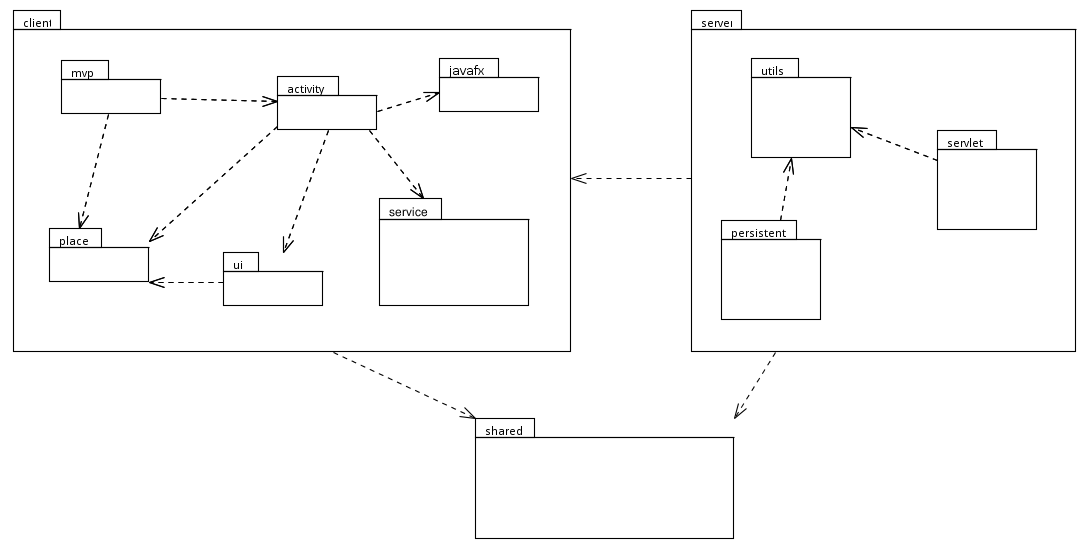
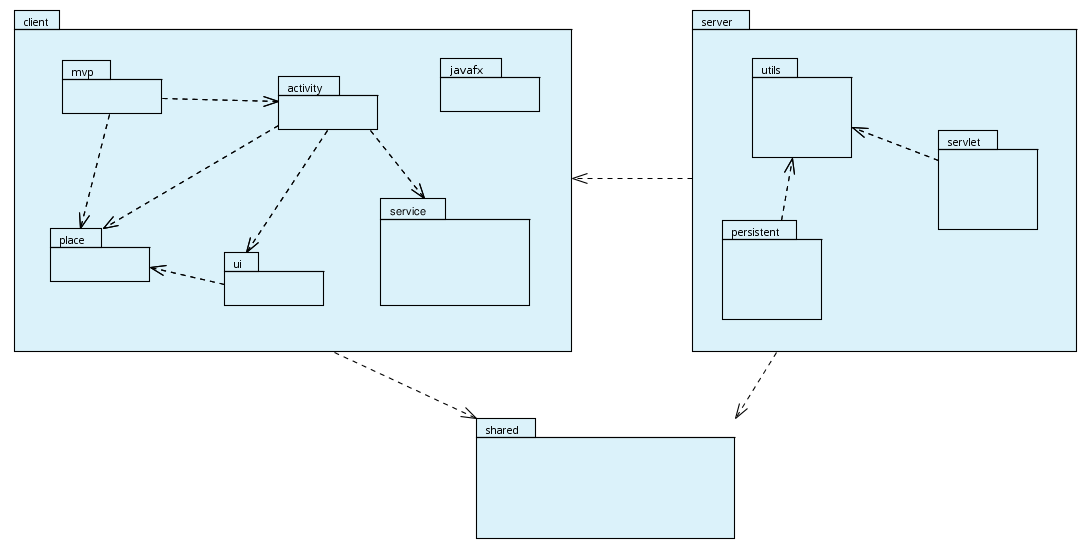
FIX - img/ST/*.png - Reinserimento dei diagrammi UML con cambio di stile.

diff --git a/SpecificaTecnica.tex b/SpecificaTecnica.tex
@@ -1,6 +1,6 @@
 
 \newcommand{\nomedoc}{Specifica Tecnica}
-\newcommand{\versione}{0.4}
+\newcommand{\versione}{0.5}
 \newcommand{\versioneglossario}{1.0}
 \newcommand{\versionenormeprogetto}{1.0}
 \newcommand{\nomefile}{SpecificaTecnica-\versione.pdf}
@@ -33,6 +33,9 @@ VT.G \\
 \hline
 \endfoot
 
+28/01/2011 & 0.5 & Caputo Cosimo & Reinserimento di tutti i grafici UML con
+cambio di stile.\\
+\hline
 28/01/2011 & 0.4 & Mandolo Andrea & Inserita traccia dell'intero capitolo 2.\\
 \hline
 27/01/2011 & 0.3 & Baron Federico & Redazione del capitolo 2.2.1 Deisgn
@@ -151,7 +154,7 @@ di Presenter e i Places rappresentano gli stati della UI.
 \subsubsection{Data Access Object (DAO)  e  Data Transfer Object (DTO)}
 \begin{figure}[h]
 \centering
-\includegraphics[width=9cm]{img/ST/daodto.png}
+\includegraphics[width=15cm]{img/ST/DAO_DTO.png}
 \caption{Diagramma UML delle classi che descrive la struttura dell'utilizzo
 simultaneo dei patterns DAO e DTO}
 \end{figure}
@@ -184,7 +187,7 @@ prodotti senza specificare classi concrete.
 
 \begin{figure}[h]
 \centering
-\includegraphics[width=13cm]{img/ST/as.png}
+\includegraphics[width=16.5cm]{img/ST/AbstractFactory.png}
 \caption{Diagramma UML delle classi che descrive la struttura tradizionale di
 Abstract factory}
 \end{figure}
@@ -200,34 +203,10 @@ di estendibilit\`a per il futuro anche se allo stadio attuale la factory
 implementata sar\`a solamente una.
 
 \newpage
-\subsubsection{Data Access Object (DAO)  e  Data Transfer Object (DTO)}
-\begin{figure}[h]
-\centering
-\includegraphics[width=9cm]{img/ST/daodto.png}
-\caption{Diagramma UML delle classi che descrive la struttura dell'utilizzo
-simultaneo dei patterns DAO e DTO}
-\end{figure}
-Questi patterns vengono introdotti all'interno della componente model di MVP e
-riguardano gli oggetti utilizzati per l'incapsulamento dei dati nelle
-comunicazioni tra client, server e database. 
-Il DAO (Data Access Object) \`e un pattern semplice ma fondamentale per
-stratificare ed isolare gli accessi al database dalla parte logica
-dell'applicazione, nel nostro caso le Activity di MVP. L'implementazione \`e
-fondamentalmente una classe che rappresenta un'entit\`a tabellare di un database.
-Questi oggetti estratti dal database in alcuni casi possono essere utilizzati
-per la comunicazione con i clients ma hanno pesanti restrizioni dovute alla
-grande quantit\`a di informazioni e procedure che contengono, per questo motivo
-abbiamo deciso di affiancare a DAO anche il pattern Data Transfer Object. Gli
-oggetti DTO saranno quelli che verranno usati nella comunicazione tra client
-e server con il vantaggio di essere pi\`u essenziali dei DAO, sono pacchetti su
-misura per la comunicazione. La logica del tracciamento tra DAO e DTO sar\`a a
-carico degli oggetti DAO.
-
-\newpage
 \subsubsection{Singleton}
 \begin{figure}[h]
 \centering
-\includegraphics[width=8cm]{img/ST/Singleton.png}
+\includegraphics[width=4cm]{img/ST/Singleton.png}
 \caption{Diagramma UML delle classi che descrive l'implementazione del design
 pattern Singleton}
 \end{figure}
@@ -296,7 +275,7 @@ Il sistema Netmus sar\`a principalmente formato dai seguenti package:
 \section{Package client}
 \begin{figure}[h]
   \centering
-  \includegraphics[width=16cm]{img/ST/ClassClient.png}
+  \includegraphics[width=16.5cm]{img/ST/client.png}
 \caption{Diagramma delle classi del package client.}
 \end{figure}
 
